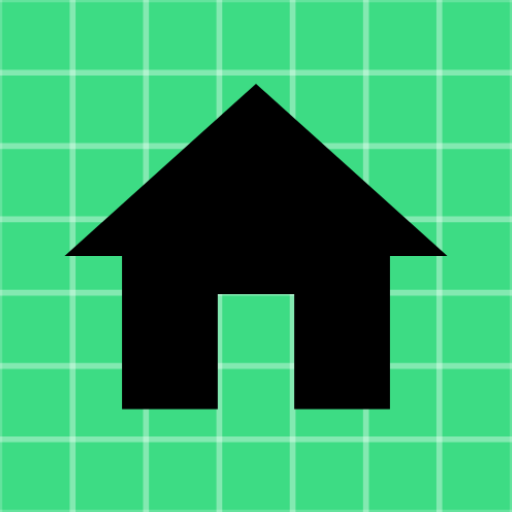
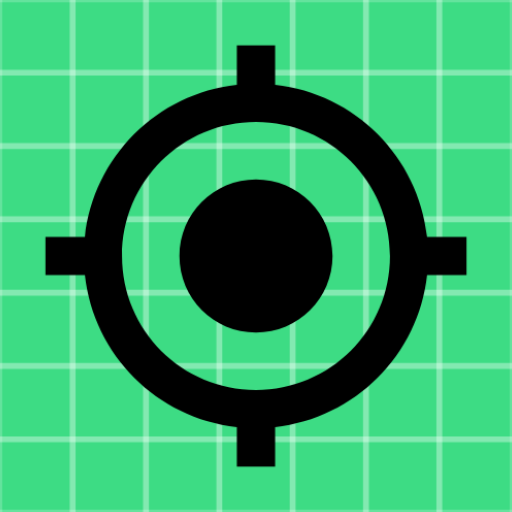
Basic map functionality

Changed region(s): [[0.0625, 0.0625, 0.9375, 0.9375]]

diff --git a/app/src/main/java/com/joonasm/sporttracker/MapFragment.kt b/app/src/main/java/com/joonasm/sporttracker/MapFragment.kt
@@ -1,7 +1,153 @@
 package com.joonasm.sporttracker
 
+import android.Manifest
+import android.content.Context
+import android.content.pm.PackageManager
+import android.location.Geocoder
+import android.location.Location
+import android.location.LocationListener
+import android.location.LocationManager
+import android.os.Bundle
+import android.os.StrictMode
+import android.util.Log
+import android.view.LayoutInflater
+import android.view.View
+import android.view.ViewGroup
+import android.widget.Toast
+import androidx.core.app.ActivityCompat
+import androidx.core.content.ContextCompat
 import androidx.fragment.app.Fragment
+import androidx.preference.PreferenceManager
+import com.joonasm.sporttracker.databinding.FragmentMapBinding
+import org.osmdroid.config.Configuration
+import org.osmdroid.tileprovider.tilesource.TileSourceFactory
+import org.osmdroid.util.GeoPoint
+import org.osmdroid.views.CustomZoomButtonsController
+import org.osmdroid.views.MapView
+import org.osmdroid.views.overlay.Marker
+import java.io.IOException
+import java.util.*
 
-class MapFragment : Fragment(R.layout.fragment_map) {
 
+class MapFragment : Fragment(R.layout.fragment_map), LocationListener {
+    private lateinit var binding: FragmentMapBinding
+    lateinit var locationManager: LocationManager
+    private lateinit var map: MapView
+    private lateinit var marker: Marker
+    private var track = true
+
+    override fun onCreateView(
+        inflater: LayoutInflater,
+        container: ViewGroup?,
+        savedInstanceState: Bundle?
+    ): View {
+        Configuration.getInstance()
+            .load(context, PreferenceManager.getDefaultSharedPreferences(context))
+        binding = FragmentMapBinding.inflate(layoutInflater)
+
+        try {
+            if (ContextCompat.checkSelfPermission(
+                    requireContext(),
+                    Manifest.permission.ACCESS_FINE_LOCATION
+                ) != PackageManager.PERMISSION_GRANTED
+            ) {
+                ActivityCompat.requestPermissions(
+                    requireActivity(),
+                    arrayOf(Manifest.permission.ACCESS_FINE_LOCATION),
+                    101
+                )
+            }
+        } catch (e: Exception) {
+            e.printStackTrace()
+        }
+
+        val policy: StrictMode.ThreadPolicy = StrictMode.ThreadPolicy.Builder().permitAll().build()
+        StrictMode.setThreadPolicy(policy)
+        locationManager = context?.getSystemService(Context.LOCATION_SERVICE) as LocationManager
+
+        setMap()
+        requestLocation()
+
+        binding.showCurrentLocationFAB.setOnClickListener {
+            track = !track
+        }
+
+        return binding.root
+    }
+
+    private fun setMap() {
+        map = binding.map
+        map.setTileSource(TileSourceFactory.MAPNIK)
+        binding.map.setMultiTouchControls(true)
+        binding.map.zoomController.setVisibility(CustomZoomButtonsController.Visibility.NEVER)
+        binding.map.controller.setZoom(17.0)
+        binding.map.controller.setCenter(GeoPoint(60.1699, 24.9384))
+    }
+
+    private fun requestLocation() {
+        if (ActivityCompat.checkSelfPermission(
+                requireContext(),
+                Manifest.permission.ACCESS_FINE_LOCATION
+            ) == PackageManager.PERMISSION_GRANTED
+        ) {
+            locationManager.requestLocationUpdates(
+                LocationManager.GPS_PROVIDER,
+                1000,
+                1f,
+                this
+            )
+        }
+    }
+
+    //Create a function that disables or enables updating your location on map
+
+
+    override fun onLocationChanged(location: Location) {
+        Log.d(
+            "GEOLOCATION", "new latitude: ${location.latitude} " +
+                    "and longitude : ${location.longitude}"
+        )
+
+        marker = Marker(binding.map)
+        if (track){
+            binding.map.controller.setCenter(
+                GeoPoint(
+                    location.latitude,
+                    location.longitude
+                )
+            )
+        }
+        marker.position = GeoPoint(location.latitude, location.longitude)
+        marker.title = getAddress(
+            GeoPoint(
+                location.latitude,
+                location.longitude
+            )
+        )
+        marker.setId("meLocation")
+        marker.setAnchor(Marker.ANCHOR_CENTER, Marker.ANCHOR_BOTTOM)
+        marker.closeInfoWindow()
+        binding.map.overlays.clear()
+        binding.map.overlays.add(marker)
+        map.invalidate()
+    }
+
+    private fun getAddress(point: GeoPoint): String {
+        var address = ""
+        val geoCoder = Geocoder(context, Locale.getDefault())
+        try {
+            val addresses = geoCoder.getFromLocation(
+                point.latitude,
+                point.longitude, 1
+            )
+            if (addresses.size > 0) {
+                address = addresses[0].getAddressLine(0)
+            }
+            Toast.makeText(context, address, Toast.LENGTH_SHORT).show()
+        } catch (e: IOException) {
+            e.printStackTrace()
+        }
+        return address
+    }
 }
+
